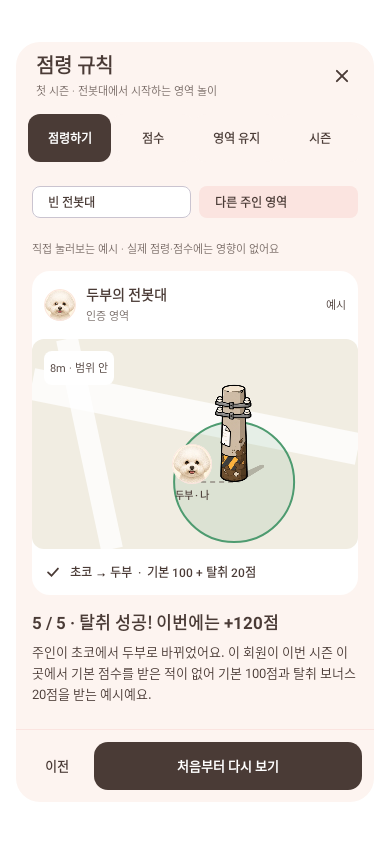
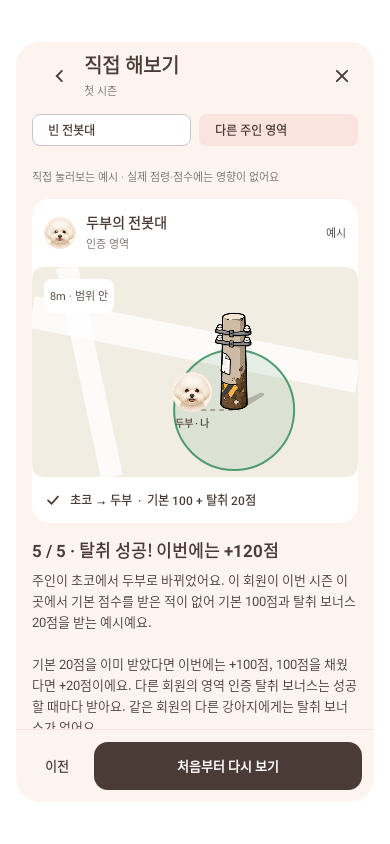
점령 규칙을 열면 긴 예시부터 보이던 것을 요약부터 보이게 한다
첫 팝업을 3단계 행동과 기본 한도·인증 차액·탈취 보너스 카드로 줄인다.
기존 조작 예시와 상세 조건은 선택해서 열며 요약 복귀와 진행 상태 복원을 유지한다.
규칙·게임 화면 7개 테스트 및 APK 빌드 통과 후 작은 화면 문구를 줄이고 관련 2개 테스트와 APK를 재검증했다.

Changed region(s): [[0.0615, 0.0616, 0.9231, 0.8626], [0.8, 0.154, 0.8615, 0.1848], [0.7077, 0.4313, 0.7385, 0.4621]]

diff --git a/app/src/main/java/com/daengs/app/ui/game/TerritoryGameRulesDialog.kt b/app/src/main/java/com/daengs/app/ui/game/TerritoryGameRulesDialog.kt
@@ -13,6 +13,7 @@ import androidx.compose.runtime.saveable.rememberSaveable
 import androidx.compose.runtime.saveable.listSaver
 import androidx.compose.ui.Alignment
 import androidx.compose.ui.Modifier
+import androidx.compose.ui.draw.rotate
 import androidx.compose.ui.platform.testTag
 import androidx.compose.ui.semantics.*
 import androidx.compose.ui.text.font.FontWeight
@@ -30,11 +31,12 @@ import com.daengs.app.ui.theme.*
 internal fun TerritoryGameRulesDialog(onDismiss: () -> Unit) {
     // The dialog owns another saveable registry. Keep progress in the caller's registry.
     val state = rememberTerritoryRulesState()
-    Dialog(onDismissRequest = onDismiss, properties = DialogProperties(usePlatformDefaultWidth = false)) {
+    Dialog(onDismissRequest = { if (state.tab == -1) onDismiss() else state.tab = -1 },
+        properties = DialogProperties(usePlatformDefaultWidth = false)) {
         Box(Modifier.fillMaxSize().safeDrawingPadding().padding(horizontal = 16.dp, vertical = 24.dp),
             contentAlignment = Alignment.Center) {
             TerritoryGameRulesContent(onDismiss, Modifier.widthIn(max = 520.dp).fillMaxWidth()
-                .heightIn(max = 760.dp).fillMaxHeight(), state)
+                .heightIn(max = 760.dp).then(if (state.tab == -1) Modifier else Modifier.fillMaxHeight()), state)
         }
     }
 }
@@ -52,17 +54,23 @@ internal fun TerritoryGameRulesContent(onDismiss: () -> Unit, modifier: Modifier
         Column {
             Row(Modifier.fillMaxWidth().padding(start = 20.dp, end = 8.dp, top = 8.dp),
                 verticalAlignment = Alignment.CenterVertically) {
+                if (tab != -1) IconButton(onClick = { state.tab = -1 },
+                    modifier = Modifier.testTag("game-rules-summary-back").semantics { contentDescription = "규칙 요약으로 돌아가기" }) {
+                    DaengsIconView(DaengsIcon.ChevronRight, Modifier.size(22.dp).rotate(180f), TextDark)
+                }
                 Column(Modifier.weight(1f)) {
-                    Text("점령 규칙", fontSize = 20.sp, fontWeight = FontWeight.Bold, color = TextDark)
-                    Text("첫 시즌 · 전봇대에서 시작하는 영역 놀이", fontSize = 11.sp, color = TextDark.copy(alpha = .76f))
+                    Text(when (tab) { -1 -> "점령 규칙"; 0 -> "직접 해보기"; else -> "자세한 규칙" },
+                        fontSize = 20.sp, fontWeight = FontWeight.Bold, color = TextDark)
+                    Text("첫 시즌", fontSize = 11.sp, color = TextDark.copy(alpha = .76f))
                 }
                 IconButton(onClick = onDismiss, modifier = Modifier.testTag("game-rules-close")
                     .semantics { contentDescription = "점령 규칙 닫기" }) {
                     DaengsIconView(DaengsIcon.Close, Modifier.size(22.dp), TextDark)
                 }
             }
-            Row(Modifier.fillMaxWidth().padding(12.dp).selectableGroup()) {
-                listOf("점령하기", "점수", "영역 유지", "시즌").forEachIndexed { index, title ->
+            if (tab >= 1) Row(Modifier.fillMaxWidth().padding(12.dp).selectableGroup()) {
+                listOf("점수", "영역 유지", "시즌").forEachIndexed { position, title ->
+                    val index = position + 1
                     Box(Modifier.weight(1f).background(if (tab == index) TextDark else CreamBg, RoundedCornerShape(12.dp))
                         .testTag("game-rules-tab-$index")
                         .selectable(tab == index, role = Role.Tab, onClick = { state.tab = index })
@@ -74,10 +82,11 @@ internal fun TerritoryGameRulesContent(onDismiss: () -> Unit, modifier: Modifier
             }
             // A new step starts at its illustration, even after scrolling a long rule or large text.
             key(tab, scenario, page) {
-                Column(Modifier.weight(1f).fillMaxWidth().testTag("game-rules-body")
+                Column(Modifier.weight(1f, fill = tab != -1).fillMaxWidth().testTag("game-rules-body")
                     .verticalScroll(rememberScrollState()).padding(horizontal = 16.dp, vertical = 4.dp),
                     verticalArrangement = Arrangement.spacedBy(14.dp)) {
                     when (tab) {
+                        -1 -> TerritoryRulesSummary()
                         0 -> {
                             Row(Modifier.fillMaxWidth().selectableGroup(), horizontalArrangement = Arrangement.spacedBy(8.dp)) {
                                 GuideScenario.entries.forEach { option ->
@@ -117,7 +126,17 @@ internal fun TerritoryGameRulesContent(onDismiss: () -> Unit, modifier: Modifier
             HorizontalDivider(color = PinkSoft)
             Row(Modifier.fillMaxWidth().testTag("game-rules-footer").padding(12.dp),
                 verticalAlignment = Alignment.CenterVertically, horizontalArrangement = Arrangement.spacedBy(8.dp)) {
-                if (tab == 0) {
+                if (tab == -1) {
+                    Button(onClick = { state.tab = 0 }, modifier = Modifier.weight(1f).heightIn(min = 48.dp)
+                        .testTag("game-rules-example-open"), shape = RoundedCornerShape(14.dp),
+                        colors = ButtonDefaults.buttonColors(containerColor = TextDark)) {
+                        Text("직접 해보기", fontSize = 13.sp, textAlign = TextAlign.Center)
+                    }
+                    OutlinedButton(onClick = { state.tab = 1 }, modifier = Modifier.weight(1f).heightIn(min = 48.dp)
+                        .testTag("game-rules-details-open"), shape = RoundedCornerShape(14.dp)) {
+                        Text("자세한 규칙", color = TextDark, fontSize = 13.sp, textAlign = TextAlign.Center)
+                    }
+                } else if (tab == 0) {
                     TextButton(onClick = { state.page-- }, enabled = page > 0,
                         colors = ButtonDefaults.textButtonColors(contentColor = TextDark),
                         modifier = Modifier.testTag("game-guide-previous")) { Text("이전") }
@@ -133,7 +152,7 @@ internal fun TerritoryGameRulesContent(onDismiss: () -> Unit, modifier: Modifier
 }
 
 @Stable
-internal class TerritoryRulesState(tab: Int = 0, scenario: GuideScenario = GuideScenario.EMPTY, page: Int = 0) {
+internal class TerritoryRulesState(tab: Int = -1, scenario: GuideScenario = GuideScenario.EMPTY, page: Int = 0) {
     var tab by mutableIntStateOf(tab)
     var scenario by mutableStateOf(scenario)
     var page by mutableIntStateOf(page)
@@ -170,4 +189,16 @@ private fun RuleExplanation(rule: GameRule) {
 @Composable
 private fun TerritoryGameRulesPreview() = DaengsTheme {
     TerritoryGameRulesContent({}, Modifier.fillMaxSize())
+}
+
+@Preview(showBackground = true, widthDp = 390, heightDp = 760)
+@Composable
+private fun TerritoryGameExamplePreview() = DaengsTheme {
+    TerritoryGameRulesContent({}, Modifier.fillMaxSize(), TerritoryRulesState(tab = 0))
+}
+
+@Preview(showBackground = true, widthDp = 390, heightDp = 760)
+@Composable
+private fun TerritoryGameRuleDetailsPreview() = DaengsTheme {
+    TerritoryGameRulesContent({}, Modifier.fillMaxSize(), TerritoryRulesState(tab = 1))
 }

diff --git a/app/src/test/java/com/daengs/app/ui/game/TerritoryGameRulesTest.kt b/app/src/test/java/com/daengs/app/ui/game/TerritoryGameRulesTest.kt
@@ -29,6 +29,14 @@ class TerritoryGameRulesTest {
         } }
         compose.onNodeWithText("회원·시즌별 100점", substring = true).assertDoesNotExist()
         compose.onNodeWithTag("game-rules-open").performClick()
+        compose.onNodeWithText("가까이 가기").assertIsDisplayed()
+        compose.onNodeWithText("강아지 사진 인증").assertIsDisplayed()
+        compose.onNodeWithText("누적 100점까지").assertIsDisplayed()
+        compose.onNodeWithText("기본 한도: 회원·장소·시즌당 100점", substring = true).assertIsDisplayed()
+        compose.onNodeWithTag("game-guide-pole").assertDoesNotExist()
+        compose.onNodeWithTag("game-rules-tab-1").assertDoesNotExist()
+        screenshot("game-rules-summary")
+        compose.onNodeWithTag("game-rules-example-open").performClick()
         compose.onNodeWithTag("game-guide-previous").assertIsNotEnabled()
         compose.onNodeWithTag("game-guide-next").performClick()
         screenshot("game-rules-select")
@@ -59,6 +67,7 @@ class TerritoryGameRulesTest {
 
     @Test fun takeoverUsesPhotoBeforeOwnershipChangesAndExplainsConditional120Points() {
         compose.setContent { DaengsTheme { TerritoryGameRulesDialog({}) } }
+        compose.onNodeWithTag("game-rules-example-open").performClick()
         compose.onNodeWithTag("game-guide-TAKEOVER").performClick()
         compose.onNodeWithTag("game-guide-owner").assertTextEquals("초코의 전봇대")
         compose.onNodeWithTag("game-guide-next").performClick()
@@ -84,15 +93,29 @@ class TerritoryGameRulesTest {
             TerritoryGameScreen(previewGameOverview(), dog, listOf(dog), { null }, 0, false, {}, {}, {}, {})
         } }
         compose.onNodeWithTag("game-rules-open").performClick()
+        compose.onNodeWithTag("game-rules-example-open").performClick()
         compose.onNodeWithTag("game-guide-TAKEOVER").performClick()
         repeat(3) { compose.onNodeWithTag("game-guide-next").performClick() }
-        compose.onNodeWithTag("game-rules-tab-1").performClick()
+        compose.onNodeWithTag("game-rules-summary-back").performClick()
+        compose.onNodeWithTag("game-rules-details-open").performClick()
         restoration.emulateSavedInstanceStateRestore()
         compose.onNodeWithTag("game-rules-tab-1").assertIsSelected()
-        compose.onNodeWithTag("game-rules-tab-0").performClick()
+        compose.runOnIdle { ShadowDialog.getLatestDialog().onBackPressed() }
+        compose.onNodeWithTag("game-rules-example-open").performClick()
         compose.onNodeWithTag("game-guide-next").assertTextContains("촬영하고 산책 계속")
         compose.onNodeWithTag("game-guide-owner").assertTextEquals("초코의 전봇대")
+        restoration.emulateSavedInstanceStateRestore()
+        compose.onNodeWithTag("game-guide-next").assertTextContains("촬영하고 산책 계속")
         compose.onNodeWithTag("game-rules-close").performClick()
+        compose.onNodeWithText("1,240 점").assertIsDisplayed()
+        compose.onNodeWithTag("game-rules-open").performClick()
+        compose.onNodeWithTag("game-rules-example-open").performClick()
+        compose.onNodeWithTag("game-guide-previous").assertIsNotEnabled()
+        compose.onNodeWithTag("game-guide-owner").assertTextEquals("아직 주인이 없어요")
+        compose.runOnIdle { ShadowDialog.getLatestDialog().onBackPressed() }
+        compose.onNodeWithTag("game-rules-details-open").assertIsDisplayed()
+        compose.runOnIdle { ShadowDialog.getLatestDialog().onBackPressed() }
+        compose.onNodeWithTag("game-rules-dialog").assertDoesNotExist()
         compose.onNodeWithText("1,240 점").assertIsDisplayed()
     }
 

diff --git a/app/src/main/java/com/daengs/app/ui/game/TerritoryRulesSummary.kt b/app/src/main/java/com/daengs/app/ui/game/TerritoryRulesSummary.kt
@@ -1,0 +1,71 @@
+package com.daengs.app.ui.game
+
+import androidx.compose.foundation.background
+import androidx.compose.foundation.layout.*
+import androidx.compose.foundation.shape.CircleShape
+import androidx.compose.foundation.shape.RoundedCornerShape
+import androidx.compose.material3.Surface
+import androidx.compose.material3.Text
+import androidx.compose.runtime.Composable
+import androidx.compose.ui.Alignment
+import androidx.compose.ui.Modifier
+import androidx.compose.ui.text.font.FontWeight
+import androidx.compose.ui.tooling.preview.Preview
+import androidx.compose.ui.unit.dp
+import androidx.compose.ui.unit.sp
+import com.daengs.app.ui.theme.*
+
+/** The entry explains only the actions and immediate rewards; conditions live in the details. */
+@Composable
+internal fun TerritoryRulesSummary() {
+    Column(Modifier.padding(top = 12.dp), verticalArrangement = Arrangement.spacedBy(16.dp)) {
+        Column(verticalArrangement = Arrangement.spacedBy(14.dp)) {
+            SummaryStep("1", "가까이 가기", "지도에 표시된 점령 위치로 이동해요.")
+            SummaryStep("2", "영역표시", "빈 곳의 20m 안에서 영역표시를 눌러요.")
+            SummaryStep("3", "강아지 사진 인증", "10m 안에서 강아지를 새로 찍어요.")
+        }
+        Surface(shape = RoundedCornerShape(18.dp), color = CardWhite) {
+            Column(Modifier.fillMaxWidth().padding(16.dp), verticalArrangement = Arrangement.spacedBy(10.dp)) {
+                Text("점수 한눈에", color = TextDark, fontSize = 15.sp, fontWeight = FontWeight.Bold)
+                SummaryScore("영역표시", "20점까지")
+                SummaryScore("사진 인증", "누적 100점까지")
+                SummaryScore("다른 회원 영역 인증 탈취", "+20점")
+                Text("20점 받은 뒤 인증하면 +80점\n기본 한도: 회원·장소·시즌당 100점",
+                    color = TextDark.copy(alpha = .76f), fontSize = 12.sp, lineHeight = 18.sp)
+            }
+        }
+    }
+}
+
+@Composable
+private fun SummaryStep(number: String, title: String, detail: String) {
+    Row(horizontalArrangement = Arrangement.spacedBy(12.dp), verticalAlignment = Alignment.Top) {
+        Box(Modifier.size(30.dp).background(PinkSoft, CircleShape), contentAlignment = Alignment.Center) {
+            Text(number, color = TextDark, fontWeight = FontWeight.Bold, fontSize = 14.sp)
+        }
+        Column(Modifier.weight(1f), verticalArrangement = Arrangement.spacedBy(3.dp)) {
+            Text(title, color = TextDark, fontSize = 15.sp, fontWeight = FontWeight.Bold)
+            Text(detail, color = TextDark, fontSize = 12.sp, lineHeight = 18.sp)
+        }
+    }
+}
+
+@Composable
+private fun SummaryScore(label: String, score: String) {
+    Row(Modifier.fillMaxWidth(), horizontalArrangement = Arrangement.spacedBy(8.dp), verticalAlignment = Alignment.CenterVertically) {
+        Text(label, Modifier.weight(1f), color = TextDark, fontSize = 12.sp, lineHeight = 18.sp)
+        Text(score, color = TextDark, fontSize = 13.sp, fontWeight = FontWeight.SemiBold)
+    }
+}
+
+@Preview(showBackground = true, widthDp = 340)
+@Composable
+private fun TerritoryRulesSummaryPreview() = DaengsTheme { TerritoryRulesSummary() }
+
+@Preview(showBackground = true)
+@Composable
+private fun SummaryStepPreview() = DaengsTheme { SummaryStep("1", "가까이 가기", "지도에 표시된 점령 위치로 이동해요.") }
+
+@Preview(showBackground = true, widthDp = 300)
+@Composable
+private fun SummaryScorePreview() = DaengsTheme { SummaryScore("다른 회원 영역 인증 탈취", "+20점") }

diff --git a/app/src/test/java/com/daengs/app/ui/game/TerritoryGameScreenTest.kt b/app/src/test/java/com/daengs/app/ui/game/TerritoryGameScreenTest.kt
@@ -49,7 +49,7 @@ class TerritoryGameScreenTest {
         compose.onNodeWithText("강아지 변경").performClick()
         compose.onNodeWithTag("game-pet-$GAME_PET_B").performClick()
         compose.onNodeWithTag("game-rules-open").performClick()
-        compose.onNodeWithTag("game-rules-tab-1").performClick()
+        compose.onNodeWithTag("game-rules-details-open").performClick()
         compose.onNodeWithText("회원·시즌별 100점", substring = true).performScrollTo().assertIsDisplayed()
         compose.onNodeWithTag("game-rules-close").performClick()
         compose.onNodeWithContentDescription("점령 게임 뒤로 가기").performClick()
@@ -111,6 +111,15 @@ class TerritoryGameScreenTest {
         val button = compose.onNodeWithTag("game-map-action").assertIsDisplayed().fetchSemanticsNode().boundsInRoot
         assertTrue(body.bottom <= button.top)
         compose.onNodeWithTag("game-rules-open").performClick()
+        compose.onNodeWithTag("game-rules-example-open").assertIsDisplayed()
+        compose.onNodeWithTag("game-rules-details-open").assertIsDisplayed()
+        compose.onNodeWithText("기본 한도: 회원·장소·시즌당 100점", substring = true)
+            .performScrollTo().assertIsDisplayed()
+        val summaryBody = compose.onNodeWithTag("game-rules-body").fetchSemanticsNode().boundsInRoot
+        val summaryFooter = compose.onNodeWithTag("game-rules-footer").fetchSemanticsNode().boundsInRoot
+        assertTrue(summaryBody.bottom <= summaryFooter.top)
+        screenshot("game-rules-summary-narrow", dialog = true)
+        compose.onNodeWithTag("game-rules-example-open").performClick()
         compose.onNodeWithTag("game-guide-next").assertIsDisplayed().performClick()
         compose.onNodeWithTag("game-guide-pole").performScrollTo().performClick()
         compose.onNodeWithTag("game-guide-next").assertIsDisplayed().performClick()
@@ -120,7 +129,8 @@ class TerritoryGameScreenTest {
         assertTrue(rulesBody.bottom <= footer.top)
         compose.onNodeWithTag("game-rules-close").assertIsDisplayed()
         screenshot("game-rules-narrow", dialog = true)
-        compose.onNodeWithTag("game-rules-tab-1").performClick()
+        compose.onNodeWithTag("game-rules-summary-back").performClick()
+        compose.onNodeWithTag("game-rules-details-open").performClick()
         compose.onNodeWithText("회원·시즌별 100점", substring = true).performScrollTo().assertIsDisplayed()
         compose.onNodeWithTag("game-rules-tab-2").performClick()
         compose.onNodeWithText("인증 직후 10분 보호").performScrollTo().assertIsDisplayed()
